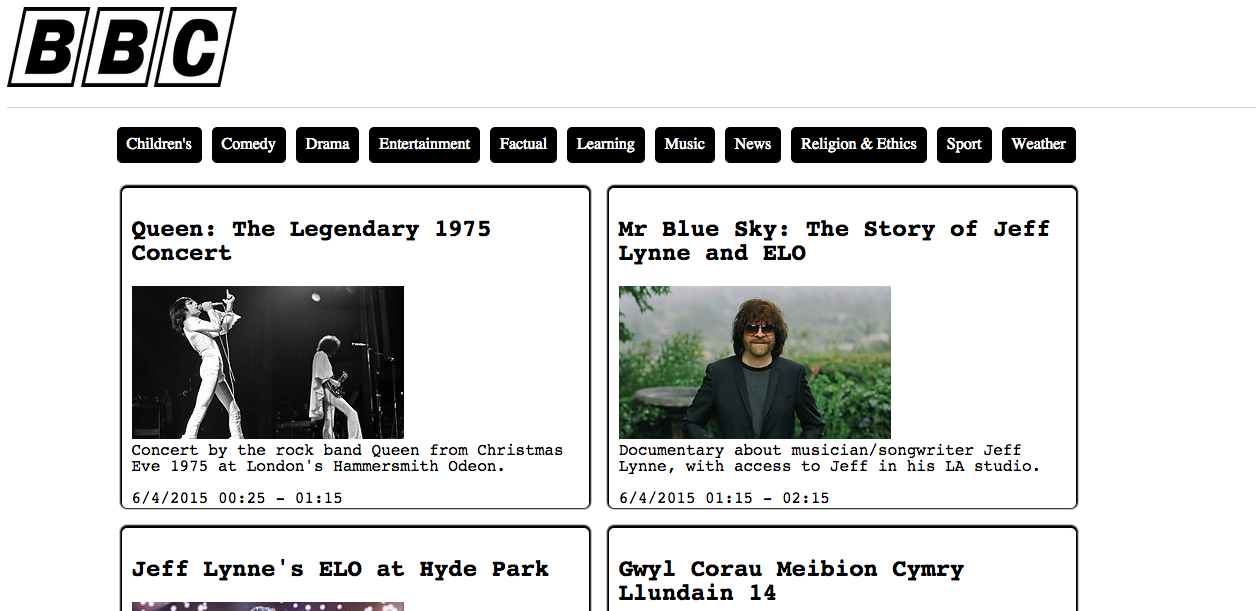
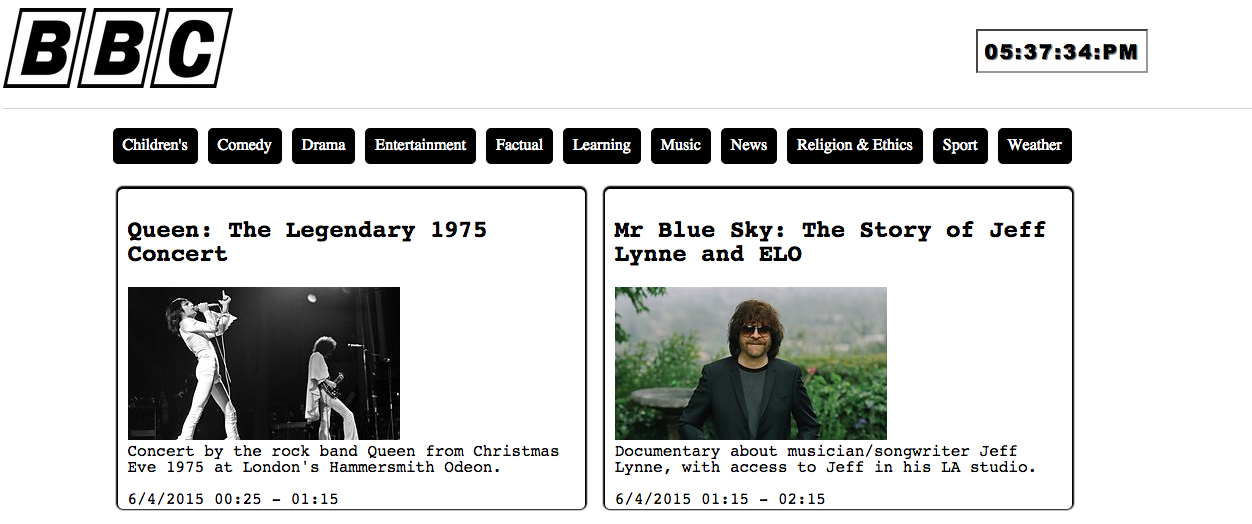
added clock

Changed region(s): [[0.0, 0.0, 0.8722, 1.0], [0.7788, 0.0305, 0.9345, 0.1527]]

diff --git a/clock.js b/clock.js
@@ -1,0 +1,37 @@
+function renderTime () {
+
+  var currentTime = new Date ();
+  var diem = "AM";
+  var h = currentTime.getHours();
+  var m = currentTime.getMinutes();
+  var s = currentTime.getSeconds();
+
+
+  if(h == 0) {
+    h = 12;
+  }
+  else if (h > 12) {
+    h = h - 12;
+    diem = "PM";
+  }
+
+  if(h < 10){
+    h="0" + h;
+
+  }
+
+  if(m<10){
+    m="0" + m;
+  }
+
+  if (s<10){
+    s="0"+s;
+  }
+
+
+var myClock = document.getElementById('clockDisplay');
+myClock.innerText = h + ":" + m + ":" + s + ":" +diem;
+  setTimeout ('renderTime()' ,1000)
+}
+
+renderTime();

diff --git a/index.html b/index.html
@@ -8,7 +8,7 @@
  <body>
   <header id="logo"></header>
 <div id="container">
-
+  <div id = "clockDisplay" class = "clockStyle"> </div>
   <ul id="genres"></ul>
   <ul id ="programmes"></ul>
 </div>
@@ -16,6 +16,7 @@
 
 <script src="http://ajax.googleapis.com/ajax/libs/jquery/1.11.2/jquery.min.js"></script>
 <script src="schedule.js"></script>
+<script src="clock.js"></script>
  </body>
 </html>
 

diff --git a/style.css b/style.css
@@ -4,6 +4,20 @@
   text-align: center;
 }
 
+.clockStyle {
+  margin-top: -100px;
+  float: right;
+  text-shadow: 1px 1px grey;
+  color: black;
+  padding: 6px;
+  border: #999 2px inset;
+  font-family: "Arial Black";
+  font-size: 20px;
+  font-weight: bold;
+  letter-spacing: 2px;
+  display: inline;
+}
+
 header{
   border-bottom: thin solid #ff0000;
   margin-bottom: 20px;
